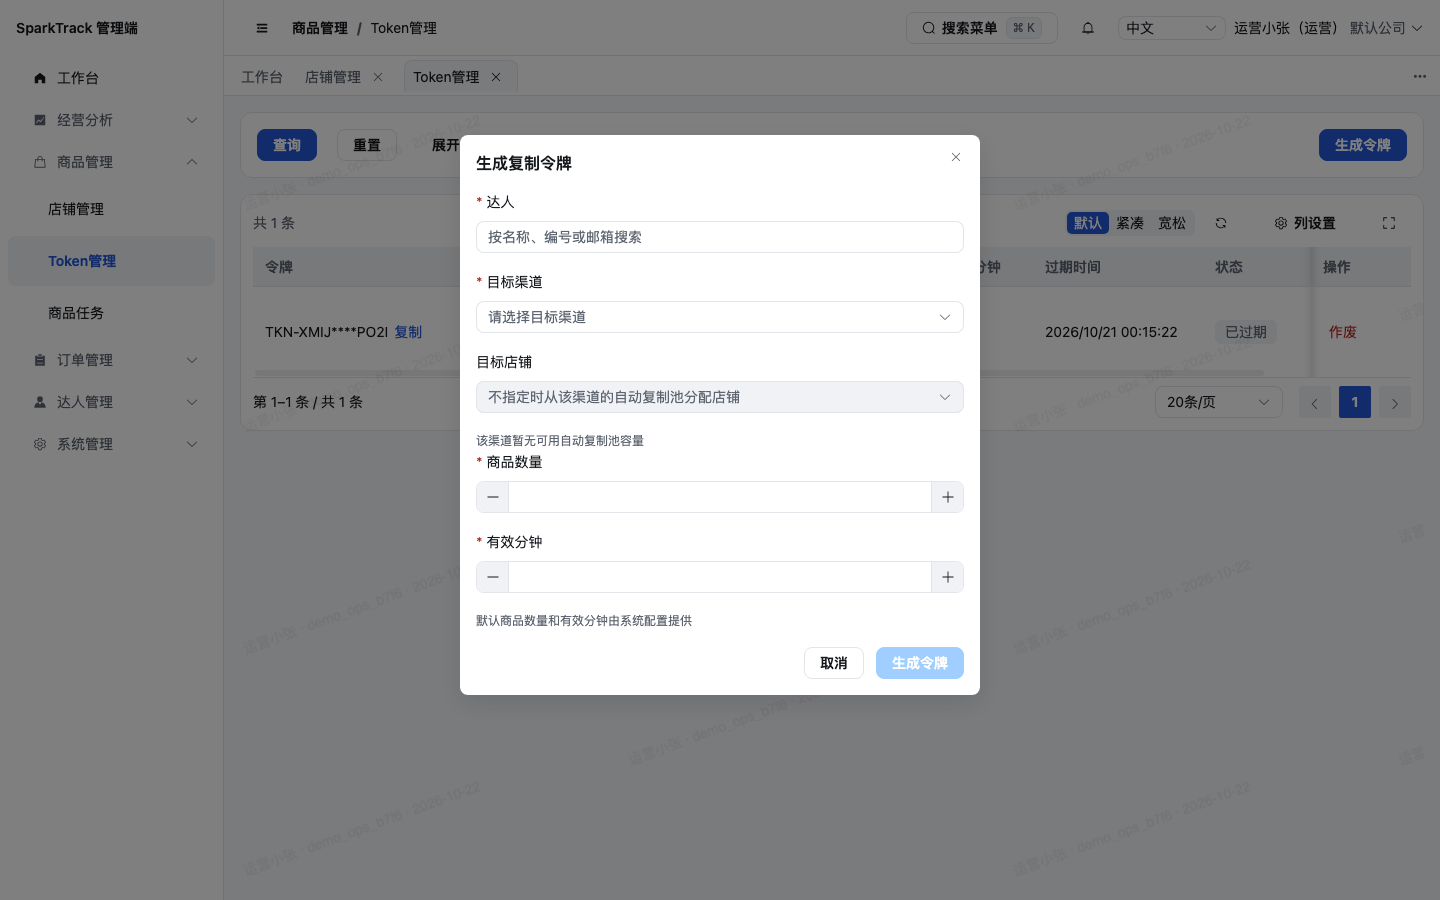
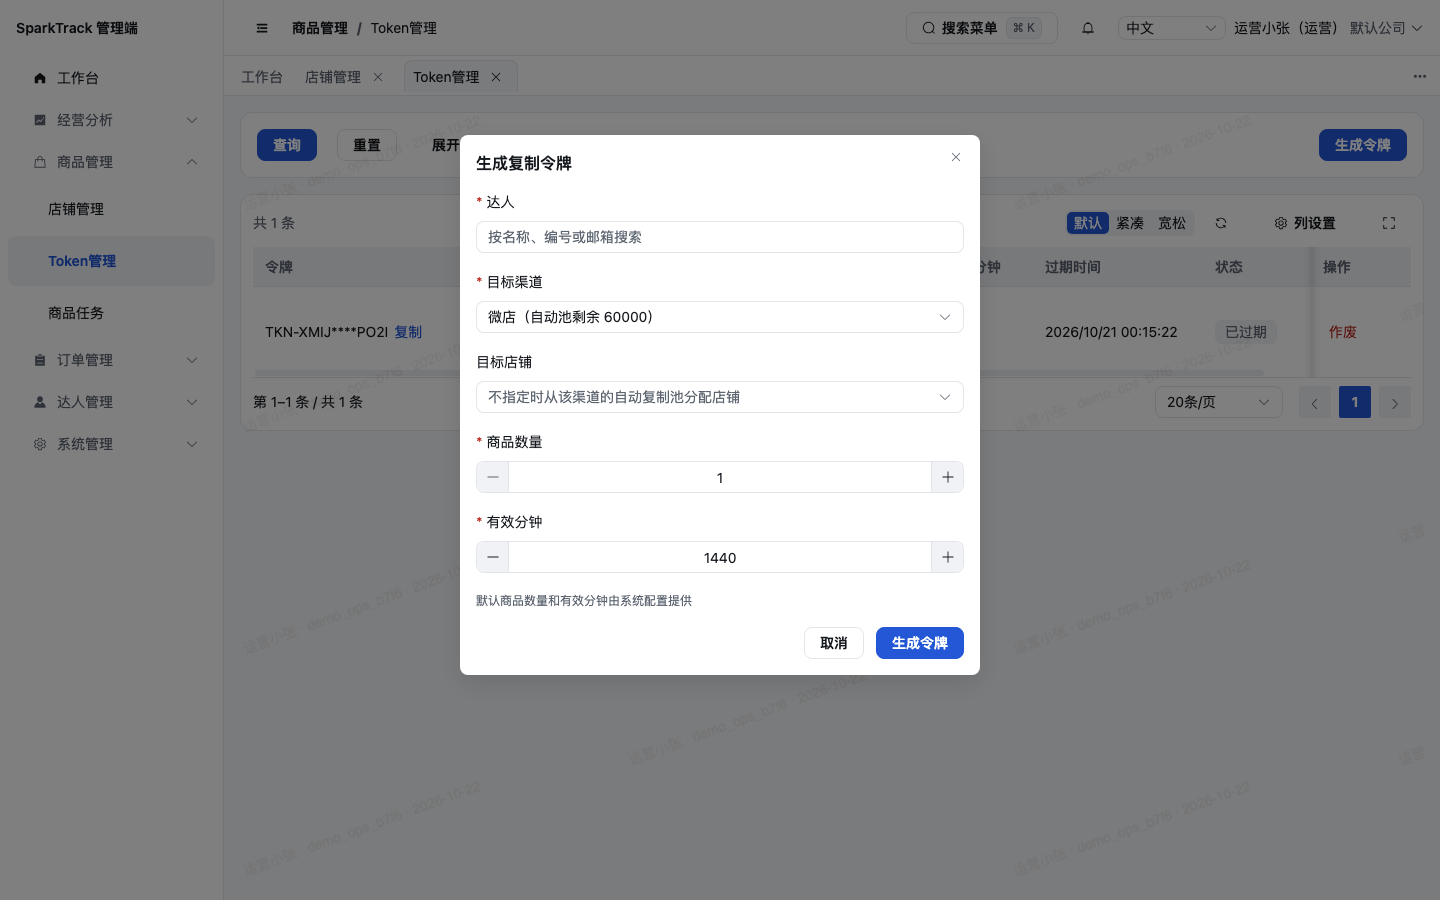
fix(admin-ui): measure shop action widths and refill token defaults
Architecture follow-up for #92: set action column to zh 470 / en 663 from
Playwright scrollWidth+20 (longest Set as source + Join copy pool row),
merge backend copy-channels defaults, re-screenshot shops and token dialog
(prefill 1 / 1440), and soft-delete t37_ fixtures after verification.

diff --git a/admin-ui/src/views/product/shop/index.vue b/admin-ui/src/views/product/shop/index.vue
@@ -97,7 +97,7 @@ const columns = computed<DataColumn[]>(() => {
     { key: "status", label: t("common.status"), width: 90 }
   ];
   if (canManage.value || canSyncOrders.value) {
-    list.push({ key: "actions", label: t("common.actions"), width: px(500, 780) });
+    list.push({ key: "actions", label: t("common.actions"), width: px(470, 663) });
   }
   return list;
 });

diff --git a/docs/04-开发任务/37-店铺管理与复制池-前端-执行报告.md b/docs/04-开发任务/37-店铺管理与复制池-前端-执行报告.md
@@ -90,7 +90,7 @@
 ## 审查回复补丁（2026-10-22）
 
 - `listShops()` 改为调用 `GET /product/shops/options`（合并 `task/37-shop-backend`）。
-- 操作列按语言定宽：中文 472px、英文 664px。
+- 操作列按语言定宽：浏览器实测 actions-cell scrollWidth 最大中文 450、英文 643，列宽取 +20 → 中文 470px、英文 663px；1440 中英文截图确认无省略号。
 - 删除未使用的 `checkId` 状态。
 - 补齐错误码中英文：`SHOP_SOURCE_CANNOT_JOIN_POOL`、`SHOP_COPY_CAPACITY_EXCEEDED`、`COPY_SHOP_CAPACITY_INSUFFICIENT`。
 - 本机 `pnpm lint` / `typecheck` / `test`（507）/ `build` / `notices:check` 通过。
@@ -145,3 +145,12 @@
 
 - 已停止本轮 18372 / 8837；**未**停止共享中间件。
 - 未改 `deploy/.env.local`。
+
+## 架构复查跟进（操作列宽度与令牌默认值）
+
+时间：2026-10-22（Asia/Shanghai）
+
+- 已合并 `origin/task/37-shop-backend`（含 `copy-channels.defaultQuota` / `defaultValidMinutes`）。
+- 操作列：Playwright 实测最长行 `scrollWidth` 中文 450 / 英文 643，列宽设为 **470 / 663**；`shops-super-admin-1440x900-{zh,en}.png` 确认「Check APIs」完整无省略。
+- 生成令牌弹窗：联调确认预填商品数量 **1**、有效分钟 **1440**；相关 `copy-token-dialog-*.png` 已重截。
+- `t37_` 店铺验证后已软删；本轮写入的预览授权行已删除。18372 / 8837 已停，未动共享中间件。
